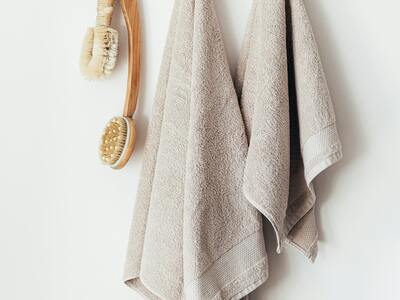
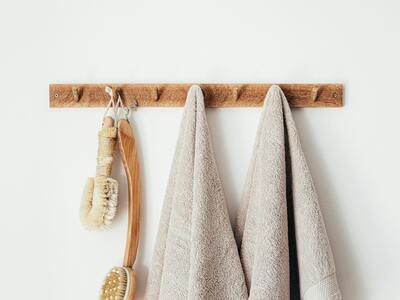
Fix bath accessories image positioning - Updated CSS object-position and recreated images using top portion of original

diff --git a/style.css b/style.css
@@ -2013,6 +2013,11 @@ textarea:focus {
     -webkit-tap-highlight-color: transparent;
 }
 
+/* Specific positioning for bath accessories image */
+.circular-image img[alt="Bath Accessories"] {
+    object-position: center 90%;
+}
+
 .material-content {
     flex: 1;
 }
